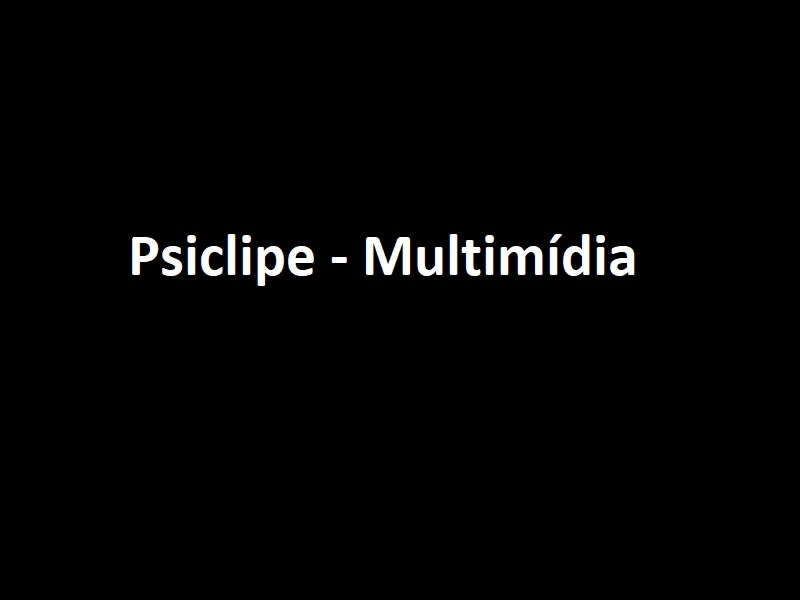
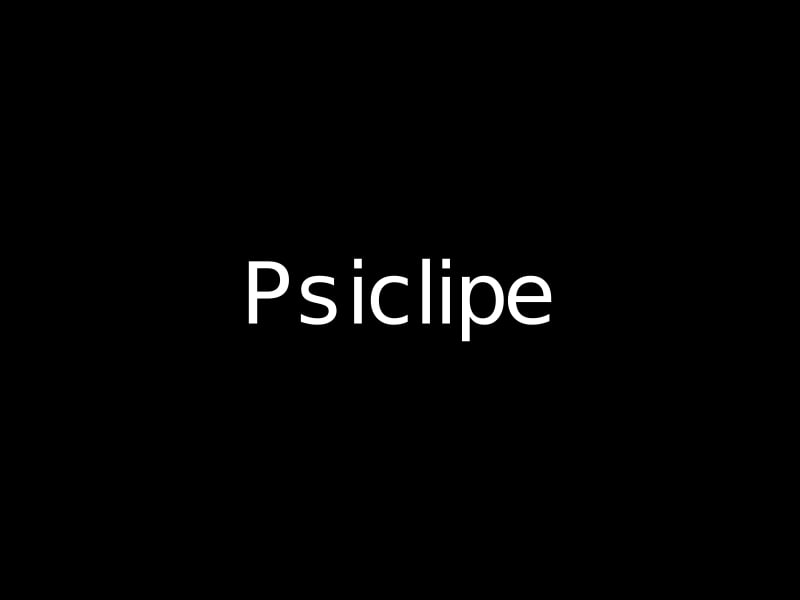
mudança de nomes no projeto

Changed region(s): [[0.1562, 0.39, 0.8125, 0.57]]

diff --git a/flask/html/index.html b/flask/html/index.html
@@ -1,7 +1,7 @@
 <!DOCTYPE html>
 <html lang="pt-br">
   <head>
-    <title>Psiclipe - Multimídia</title>
+    <title>Psiclipe</title>
     <meta charset="utf-8">
     <meta name="viewport" content="width=device-width, initial-scale=1, shrink-to-fit=no">
     <link rel="stylesheet" href="https://stackpath.bootstrapcdn.com/bootstrap/4.1.3/css/bootstrap.min.css" integrity="sha384-MCw98/SFnGE8fJT3GXwEOngsV7Zt27NXFoaoApmYm81iuXoPkFOJwJ8ERdknLPMO" crossorigin="anonymous">
@@ -9,7 +9,7 @@
   <body>
     <div class="container " style="height: 100vh;">
       <div class="d-flex justify-content-center">
-        <h1 class="h1"> Psiclipe - Multimídia </h1>
+        <h1 class="h1"> Psiclipe </h1>
       </div>
       <form method="POST">
         <div class="col-12">
@@ -50,7 +50,7 @@
     var deepCheck = document.getElementById("checkDreamCheck");
     var deepFrames = document.getElementsByName("checkDreamFrames");
     deepCheck.addEventListener("click", function(e) {
-      // print('testandooo');
+      
       if(deepCheck.checked){
         deepFrames[0].style.display = 'inline';
         deepFrames[1].style.display = 'inline';

diff --git a/flask/html/makeclipe.html b/flask/html/makeclipe.html
@@ -1,7 +1,7 @@
 <!DOCTYPE html>
 <html lang="pt-br">
   <head>
-    <title>Psiclipe - Multimídia</title>
+    <title>Psiclipe</title>
     <meta charset="utf-8">
     <meta name="viewport" content="width=device-width, initial-scale=1, shrink-to-fit=no">
     <link rel="stylesheet" href="https://stackpath.bootstrapcdn.com/bootstrap/4.1.3/css/bootstrap.min.css" integrity="sha384-MCw98/SFnGE8fJT3GXwEOngsV7Zt27NXFoaoApmYm81iuXoPkFOJwJ8ERdknLPMO" crossorigin="anonymous">
@@ -9,7 +9,7 @@
   <body>
     <div class="container " style="height: 100vh;">
       <div class="d-flex justify-content-center">
-        <h1 class="h1"> Psiclipe - Multimídia </h1>
+        <h1 class="h1"> Psiclipe </h1>
       </div>
 
       <div class="d-flex justify-content-center">

diff --git a/flask/html/clipe.html b/flask/html/clipe.html
@@ -1,7 +1,7 @@
 <!DOCTYPE html>
 <html lang="pt-br">
   <head>
-    <title>Psiclipe - Multimídia</title>
+    <title>Psiclipe</title>
     <meta charset="utf-8">
     <meta name="viewport" content="width=device-width, initial-scale=1, shrink-to-fit=no">
     <link rel="stylesheet" href="https://stackpath.bootstrapcdn.com/bootstrap/4.1.3/css/bootstrap.min.css" integrity="sha384-MCw98/SFnGE8fJT3GXwEOngsV7Zt27NXFoaoApmYm81iuXoPkFOJwJ8ERdknLPMO" crossorigin="anonymous">
@@ -9,7 +9,7 @@
   <body>
     <div class="container " style="height: 100vh;">
       <div class="d-flex justify-content-center">
-        <h1 class="h1"> Psiclipe - Multimídia </h1>
+        <h1 class="h1"> Psiclipe</h1>
       </div>
 
       <div class="d-flex justify-content-center">

diff --git a/flask/source_code.py b/flask/source_code.py
@@ -2,7 +2,6 @@
 # -*- coding: utf-8 -*-
 from search_lyric import get_lyric_videoLink
 from download_music import download_song
-from get_images import get_lyric_images
 from get_images import get_images
 from make_video import make_video
 from make_video import make_video_lyric
